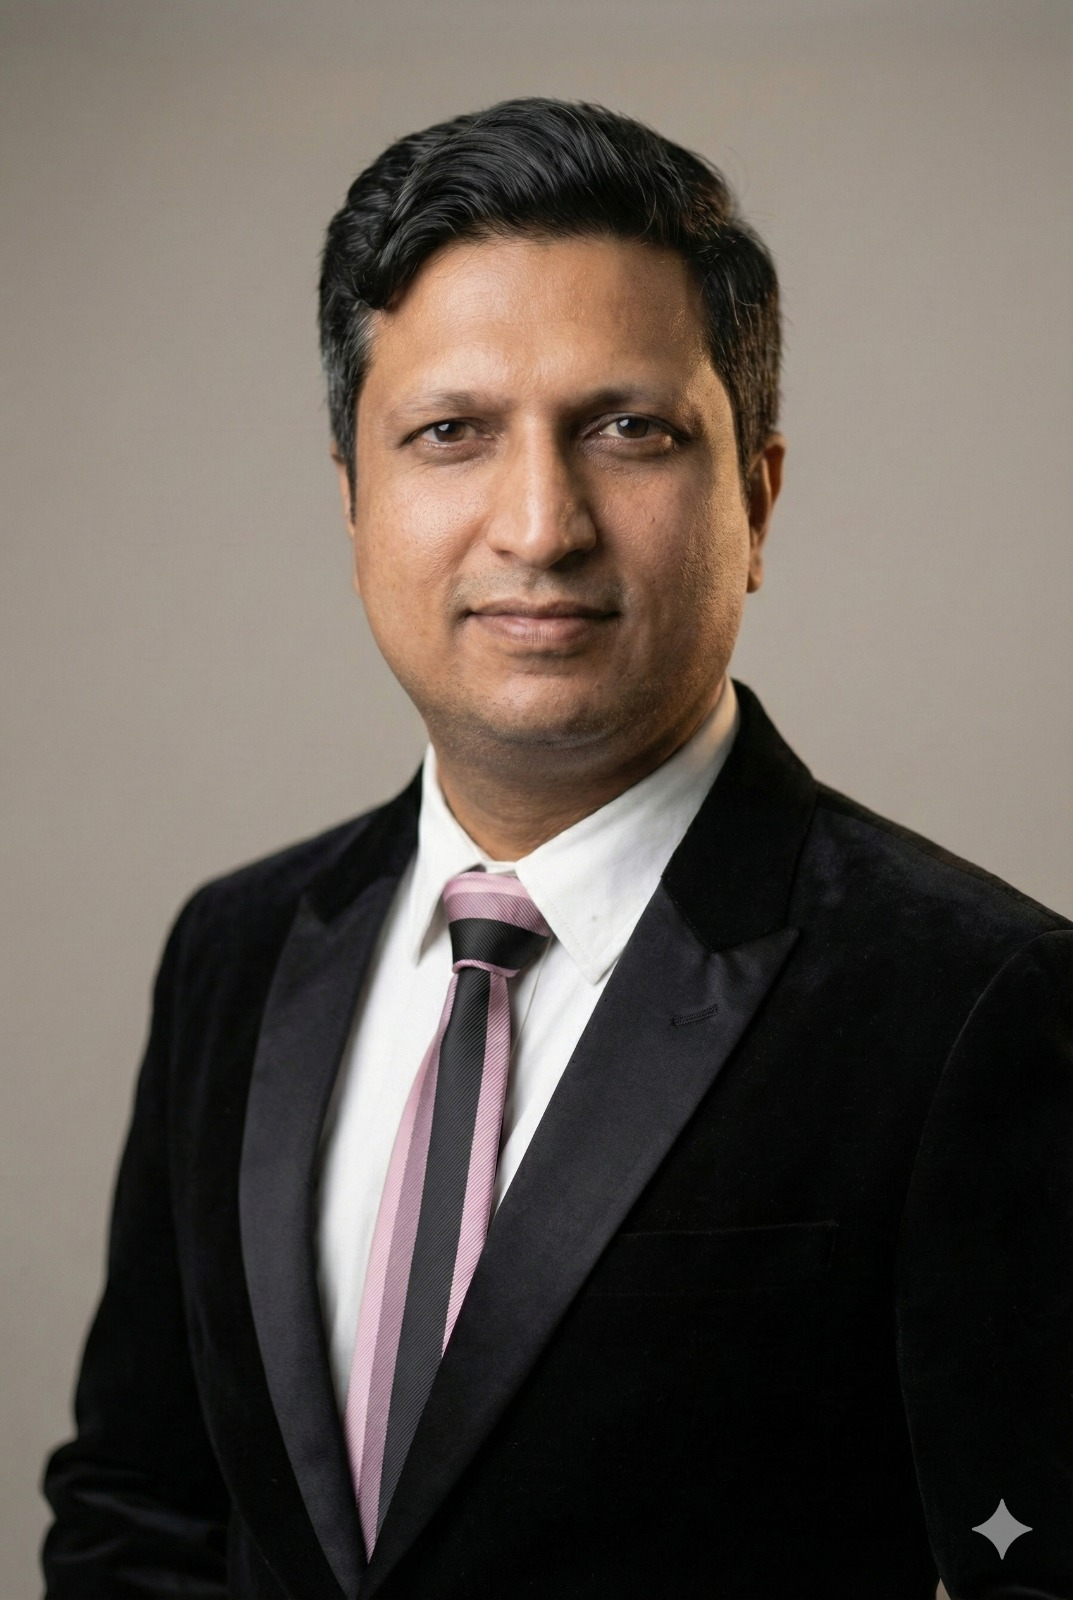
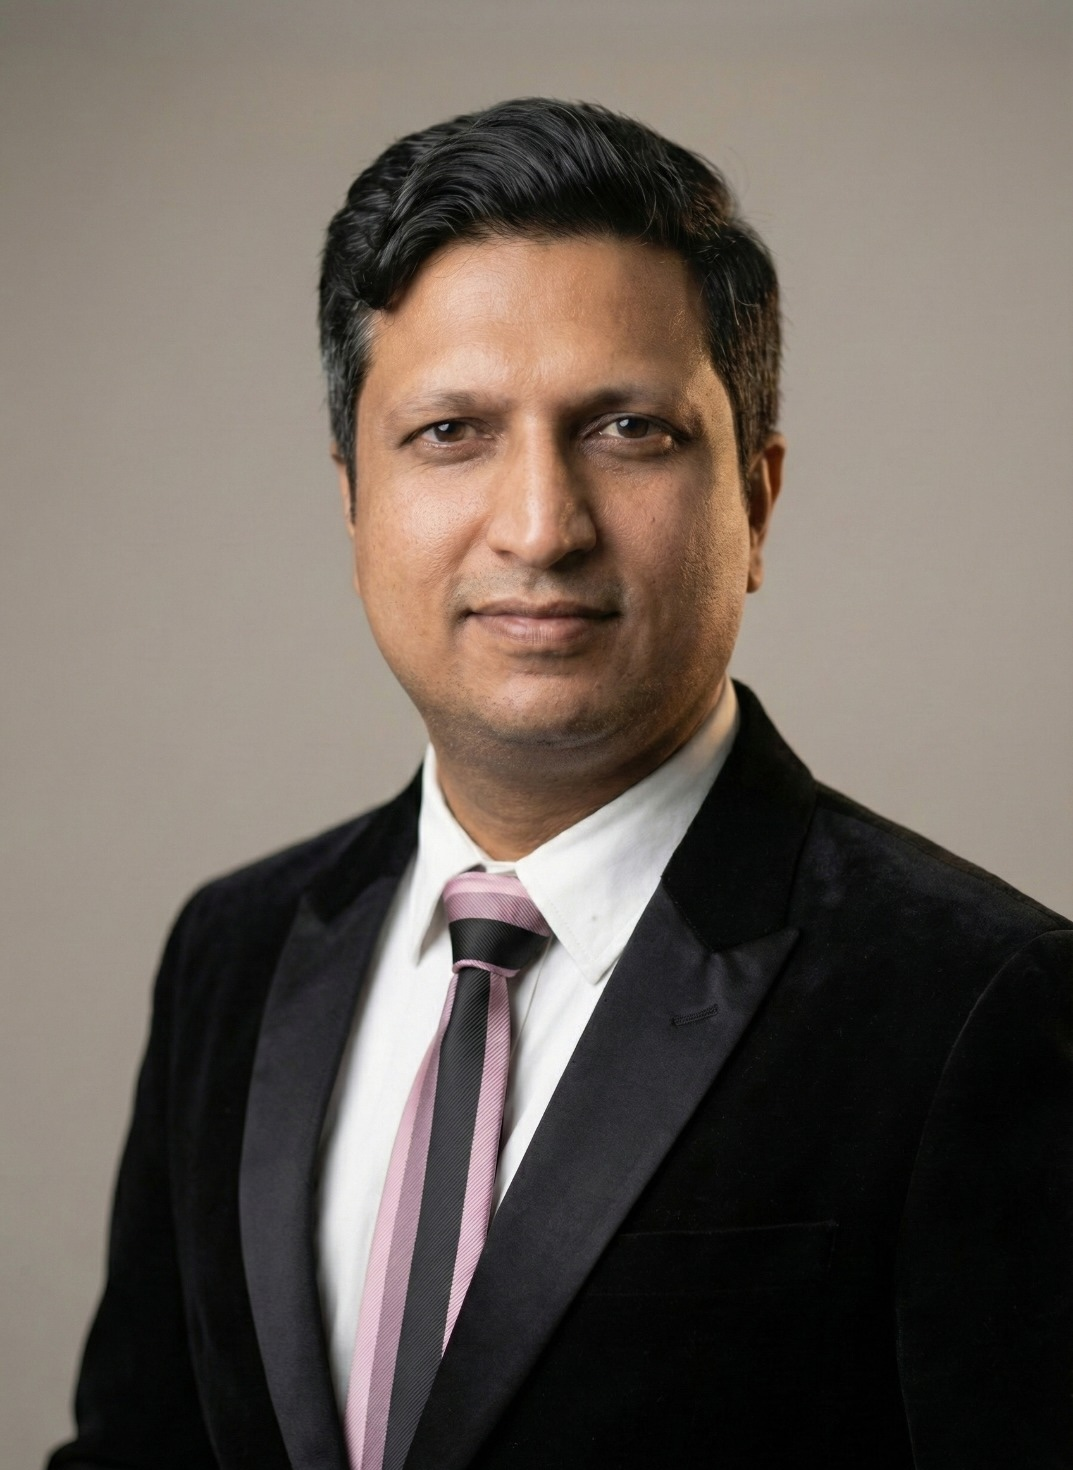
minor issues

Changed region(s): [[0.0308, 0.0612, 1.0, 1.0], [0.8919, 0.9184, 0.9534, 0.9796], [0.8611, 0.9796, 0.8919, 1.0]]

diff --git a/components/HeroSection.tsx b/components/HeroSection.tsx
@@ -2,6 +2,7 @@
 
 import { motion } from "framer-motion";
 import { Award, ChevronDown, TrendingUp, Users, CheckCircle } from "lucide-react";
+import Link from "next/link";
 
 export default function HeroSection() {
   const fadeInUp = {
@@ -114,64 +115,31 @@ export default function HeroSection() {
           >
             Precision moulds and injection molding solutions powering everything from automotive components to consumer appliances. Trusted by industry leaders worldwide.
           </motion.p>
-
-          {/* Stats Row */}
-          {/* <motion.div 
-            className="grid grid-cols-2 md:grid-cols-4 gap-4 md:gap-6 mb-8 max-w-3xl"
-            variants={fadeInUp}
-          >
-            <div className="bg-white/10 backdrop-blur-sm rounded-lg p-4 border border-white/20">
-              <div className="flex items-center gap-2 mb-1">
-                <TrendingUp className="w-4 h-4 text-amber-400" />
-                <span className="text-2xl md:text-3xl font-bold text-white font-[family-name:var(--font-carbon)]">30+</span>
-              </div>
-              <p className="text-xs md:text-sm text-gray-300">Years Experience</p>
-            </div>
-            <div className="bg-white/10 backdrop-blur-sm rounded-lg p-4 border border-white/20">
-              <div className="flex items-center gap-2 mb-1">
-                <Users className="w-4 h-4 text-amber-400" />
-                <span className="text-2xl md:text-3xl font-bold text-white font-[family-name:var(--font-carbon)]">100M+</span>
-              </div>
-              <p className="text-xs md:text-sm text-gray-300">Parts Delivered</p>
-            </div>
-            <div className="bg-white/10 backdrop-blur-sm rounded-lg p-4 border border-white/20">
-              <div className="flex items-center gap-2 mb-1">
-                <CheckCircle className="w-4 h-4 text-amber-400" />
-                <span className="text-2xl md:text-3xl font-bold text-white font-[family-name:var(--font-carbon)]">99.9%</span>
-              </div>
-              <p className="text-xs md:text-sm text-gray-300">Quality Rate</p>
-            </div>
-            <div className="bg-white/10 backdrop-blur-sm rounded-lg p-4 border border-white/20">
-              <div className="flex items-center gap-2 mb-1">
-                <Award className="w-4 h-4 text-amber-400" />
-                <span className="text-2xl md:text-3xl font-bold text-white font-[family-name:var(--font-carbon)]">850T</span>
-              </div>
-              <p className="text-xs md:text-sm text-gray-300">Max Capacity</p>
-            </div>
-          </motion.div> */}
-          
-          {/* CTA Buttons */}
           <motion.div
             className="flex flex-col sm:flex-row gap-4"
             variants={fadeInUp}
           >
-            <motion.button 
-              className="bg-amber-500 hover:bg-amber-600 text-gray-900 px-6 py-3 md:px-10 md:py-4 rounded-full font-bold text-sm md:text-base transition-all shadow-xl shadow-amber-500/30 hover:shadow-amber-500/50 font-[family-name:var(--font-korto)] group inline-flex items-center justify-center gap-2"
-              whileHover={{ scale: 1.05, y: -2 }}
-              whileTap={{ scale: 0.98 }}
-            >
-              Get a Custom Quote
-              <svg className="w-4 h-4 group-hover:translate-x-1 transition-transform" fill="none" stroke="currentColor" viewBox="0 0 24 24">
-                <path strokeLinecap="round" strokeLinejoin="round" strokeWidth={2} d="M9 5l7 7-7 7" />
-              </svg>
-            </motion.button>
-            <motion.button 
-              className="bg-white/10 backdrop-blur-sm hover:bg-white/20 border-2 border-white/30 hover:border-white/50 text-white px-6 py-3 md:px-10 md:py-4 rounded-full font-bold text-sm md:text-base transition-all font-[family-name:var(--font-korto)]"
-              whileHover={{ scale: 1.05, y: -2 }}
-              whileTap={{ scale: 0.98 }}
-            >
-              Explore Capabilities
-            </motion.button>
+            <Link href="/contact">
+              <motion.button 
+                className="bg-amber-500 hover:bg-amber-600 text-gray-900 px-6 py-3 md:px-10 md:py-4 rounded-full font-bold text-sm md:text-base transition-all shadow-xl shadow-amber-500/30 hover:shadow-amber-500/50 font-[family-name:var(--font-korto)] group inline-flex items-center justify-center gap-2 w-full sm:w-auto"
+                whileHover={{ scale: 1.05, y: -2 }}
+                whileTap={{ scale: 0.98 }}
+              >
+                Get a Custom Quote
+                <svg className="w-4 h-4 group-hover:translate-x-1 transition-transform" fill="none" stroke="currentColor" viewBox="0 0 24 24">
+                  <path strokeLinecap="round" strokeLinejoin="round" strokeWidth={2} d="M9 5l7 7-7 7" />
+                </svg>
+              </motion.button>
+            </Link>
+            <Link href="/capabilities">
+              <motion.button 
+                className="bg-white/10 backdrop-blur-sm hover:bg-white/20 border-2 border-white/30 hover:border-white/50 text-white px-6 py-3 md:px-10 md:py-4 rounded-full font-bold text-sm md:text-base transition-all font-[family-name:var(--font-korto)] w-full sm:w-auto"
+                whileHover={{ scale: 1.05, y: -2 }}
+                whileTap={{ scale: 0.98 }}
+              >
+                Explore Capabilities
+              </motion.button>
+            </Link>
           </motion.div>
         </motion.div>
       </div>

diff --git a/components/StatsCarousel.tsx b/components/StatsCarousel.tsx
@@ -19,12 +19,31 @@ export default function StatsCarousel({ highlights }: StatsCarouselProps) {
   const [currentSet, setCurrentSet] = useState(0);
   const [isPaused, setIsPaused] = useState(false);
   const [isInitialLoad, setIsInitialLoad] = useState(true);
-  const itemsPerSet = 8;
+  const [windowWidth, setWindowWidth] = useState(0);
+
+  useEffect(() => {
+    const handleResize = () => setWindowWidth(window.innerWidth);
+    handleResize();
+    window.addEventListener('resize', handleResize);
+    return () => window.removeEventListener('resize', handleResize);
+  }, []);
+
+  const getItemsPerSet = () => {
+    if (windowWidth < 768) return 1; // Mobile: 1 card
+    if (windowWidth < 1024) return 2; // Tablet: 2 cards in single row
+    return 8; // Desktop: 8 cards (2x4)
+  };
+
+  const itemsPerSet = getItemsPerSet();
   const totalSets = Math.ceil(highlights.length / itemsPerSet);
 
   useEffect(() => {
     setIsInitialLoad(false);
   }, []);
+
+  useEffect(() => {
+    setCurrentSet(0);
+  }, [itemsPerSet]);
 
   useEffect(() => {
     if (isPaused || totalSets <= 1) return;
@@ -77,7 +96,7 @@ export default function StatsCarousel({ highlights }: StatsCarouselProps) {
             <>
               <button
                 onClick={goToPrevious}
-                className="absolute -left-4 md:-left-16 top-1/2 -translate-y-1/2 z-20 bg-amber-500 hover:bg-amber-600 text-white p-3 rounded-full shadow-lg transition-all hover:scale-110"
+                className="absolute -left-2 lg:-left-16 top-1/2 -translate-y-1/2 z-20 bg-amber-500 hover:bg-amber-600 text-white p-1 md:p-3 rounded-full shadow-lg transition-all hover:scale-110"
                 aria-label="Previous set"
               >
                 <svg className="w-6 h-6" fill="none" stroke="currentColor" viewBox="0 0 24 24">
@@ -87,7 +106,7 @@ export default function StatsCarousel({ highlights }: StatsCarouselProps) {
               
               <button
                 onClick={goToNext}
-                className="absolute -right-4 md:-right-16 top-1/2 -translate-y-1/2 z-20 bg-amber-500 hover:bg-amber-600 text-white p-3 rounded-full shadow-lg transition-all hover:scale-110"
+                className="absolute -right-2 lg:-right-16 top-1/2 -translate-y-1/2 z-20 bg-amber-500 hover:bg-amber-600 text-white p-1 md:p-3 rounded-full shadow-lg transition-all hover:scale-110"
                 aria-label="Next set"
               >
                 <svg className="w-6 h-6" fill="none" stroke="currentColor" viewBox="0 0 24 24">
@@ -106,7 +125,7 @@ export default function StatsCarousel({ highlights }: StatsCarouselProps) {
                 animate={{ opacity: 1, x: 0 }}
                 exit={{ opacity: 0, x: -100 }}
                 transition={{ duration: 0.4 }}
-                className="grid grid-cols-1 sm:grid-cols-2 lg:grid-cols-4 gap-6"
+                className="grid grid-cols-1 md:grid-cols-2 lg:grid-cols-4 gap-6"
               >
                 {getCurrentItems().map((item, index) => (
                   <motion.div

diff --git a/components/Navigation.tsx b/components/Navigation.tsx
@@ -49,7 +49,7 @@ export default function Navigation() {
           <Image
             src="/logo/logo1.png"
             alt="Vinayak Industries Logo"
-            width={140}
+            width={100}
             height={60}
             className={`object-contain cursor-pointer transition-all duration-300 ${
               isScrolled ? 'brightness-0' : 'brightness-0 invert'
@@ -58,7 +58,7 @@ export default function Navigation() {
         </Link>
 
         {/* Desktop Menu */}
-        <div className="hidden md:flex items-center gap-8">
+        <div className="hidden lg:flex items-center gap-8">
           {navLinks.map((link) => (
             <Link
               key={link.href}
@@ -87,7 +87,7 @@ export default function Navigation() {
         {/* Hamburger Button */}
         <button
           onClick={toggleMenu}
-          className={`md:hidden p-2 transition-colors ${
+          className={`lg:hidden p-2 transition-colors ${
             isScrolled ? 'text-gray-800 hover:text-amber-500' : 'text-white hover:text-amber-500'
           }`}
           aria-label="Toggle menu"
@@ -108,7 +108,7 @@ export default function Navigation() {
 
       {/* Mobile Menu */}
       <div
-        className={`md:hidden bg-white border-t border-gray-200 transition-all duration-300 ease-in-out ${
+        className={`lg:hidden bg-white border-t border-gray-200 transition-all duration-300 ease-in-out ${
           isMenuOpen ? "max-h-screen opacity-100" : "max-h-0 opacity-0 overflow-hidden"
         }`}
       >

diff --git a/components/BlogSection.tsx b/components/BlogSection.tsx
@@ -65,7 +65,7 @@ const BlogSection = () => {
             {/* Navigation Arrows - Left and Right */}
             <button
               onClick={() => scroll('left')}
-              className="absolute -left-5 md:-left-12 top-1/2 -translate-y-1/2 z-10 bg-amber-500 hover:bg-amber-600 text-white p-3 rounded-full shadow-lg transition-all hover:scale-110"
+              className="absolute -left-5 lg:-left-12 top-1/2 -translate-y-1/2 z-10 bg-amber-500 hover:bg-amber-600 text-white p-1 md:p-3 rounded-full shadow-lg transition-all hover:scale-110"
               aria-label="Scroll left"
             >
               <svg className="w-6 h-6" fill="none" stroke="currentColor" viewBox="0 0 24 24">
@@ -75,7 +75,7 @@ const BlogSection = () => {
             
             <button
               onClick={() => scroll('right')}
-              className="absolute -right-5 md:-right-12 top-1/2 -translate-y-1/2 z-10 bg-amber-500 hover:bg-amber-600 text-white p-3 rounded-full shadow-lg transition-all hover:scale-110"
+              className="absolute -right-5 lg:-right-12 top-1/2 -translate-y-1/2 z-10 bg-amber-500 hover:bg-amber-600 text-white p-1 md:p-3 rounded-full shadow-lg transition-all hover:scale-110"
               aria-label="Scroll right"
             >
               <svg className="w-6 h-6" fill="none" stroke="currentColor" viewBox="0 0 24 24">

diff --git a/components/Footer.tsx b/components/Footer.tsx
@@ -5,7 +5,7 @@ export default function Footer() {
   return (
     <footer className="bg-gray-900 text-white">
       <div className="max-w-7xl mx-auto px-6 py-16">
-        <div className="grid md:grid-cols-3 gap-12 mb-12">
+        <div className="grid lg:grid-cols-3 gap-12 mb-12">
           {/* Company Info */}
           <div>
             <Image
